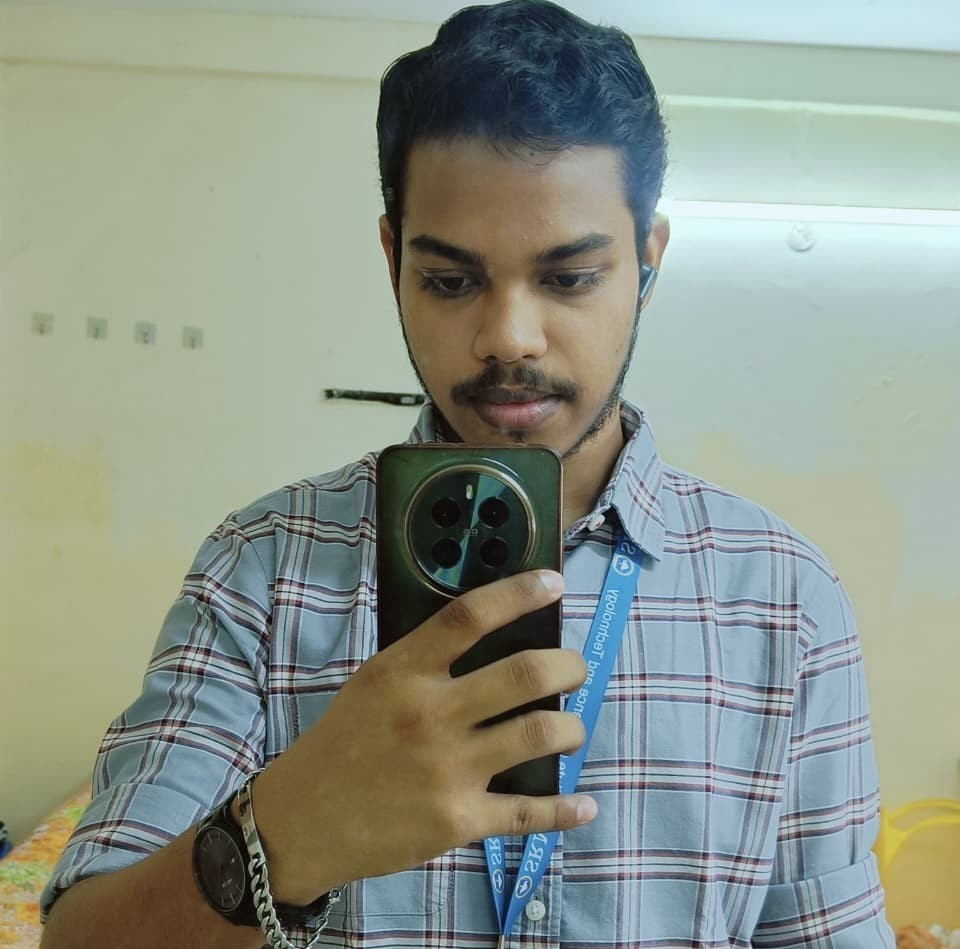
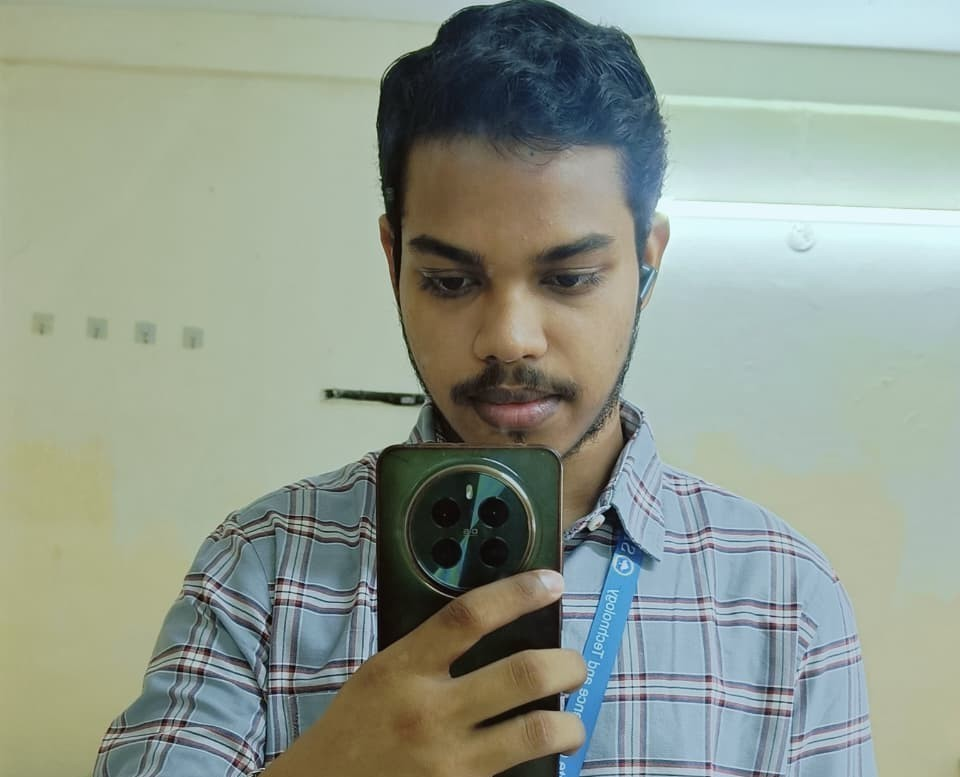
Updated Profile picture and HTML

diff --git a/index.html b/index.html
@@ -17,7 +17,7 @@
   <link rel="preconnect" href="https://fonts.gstatic.com" crossorigin>
   <link href="https://fonts.googleapis.com/css2?family=Poppins:wght@400;600;700&display=swap" rel="stylesheet">
 
-  <link rel="stylesheet" href="dist/output.css">
+<link rel="stylesheet" href="/Portfolio/dist/output.css">
 
 </head>
 <body class="bg-bg text-text font-sans">
